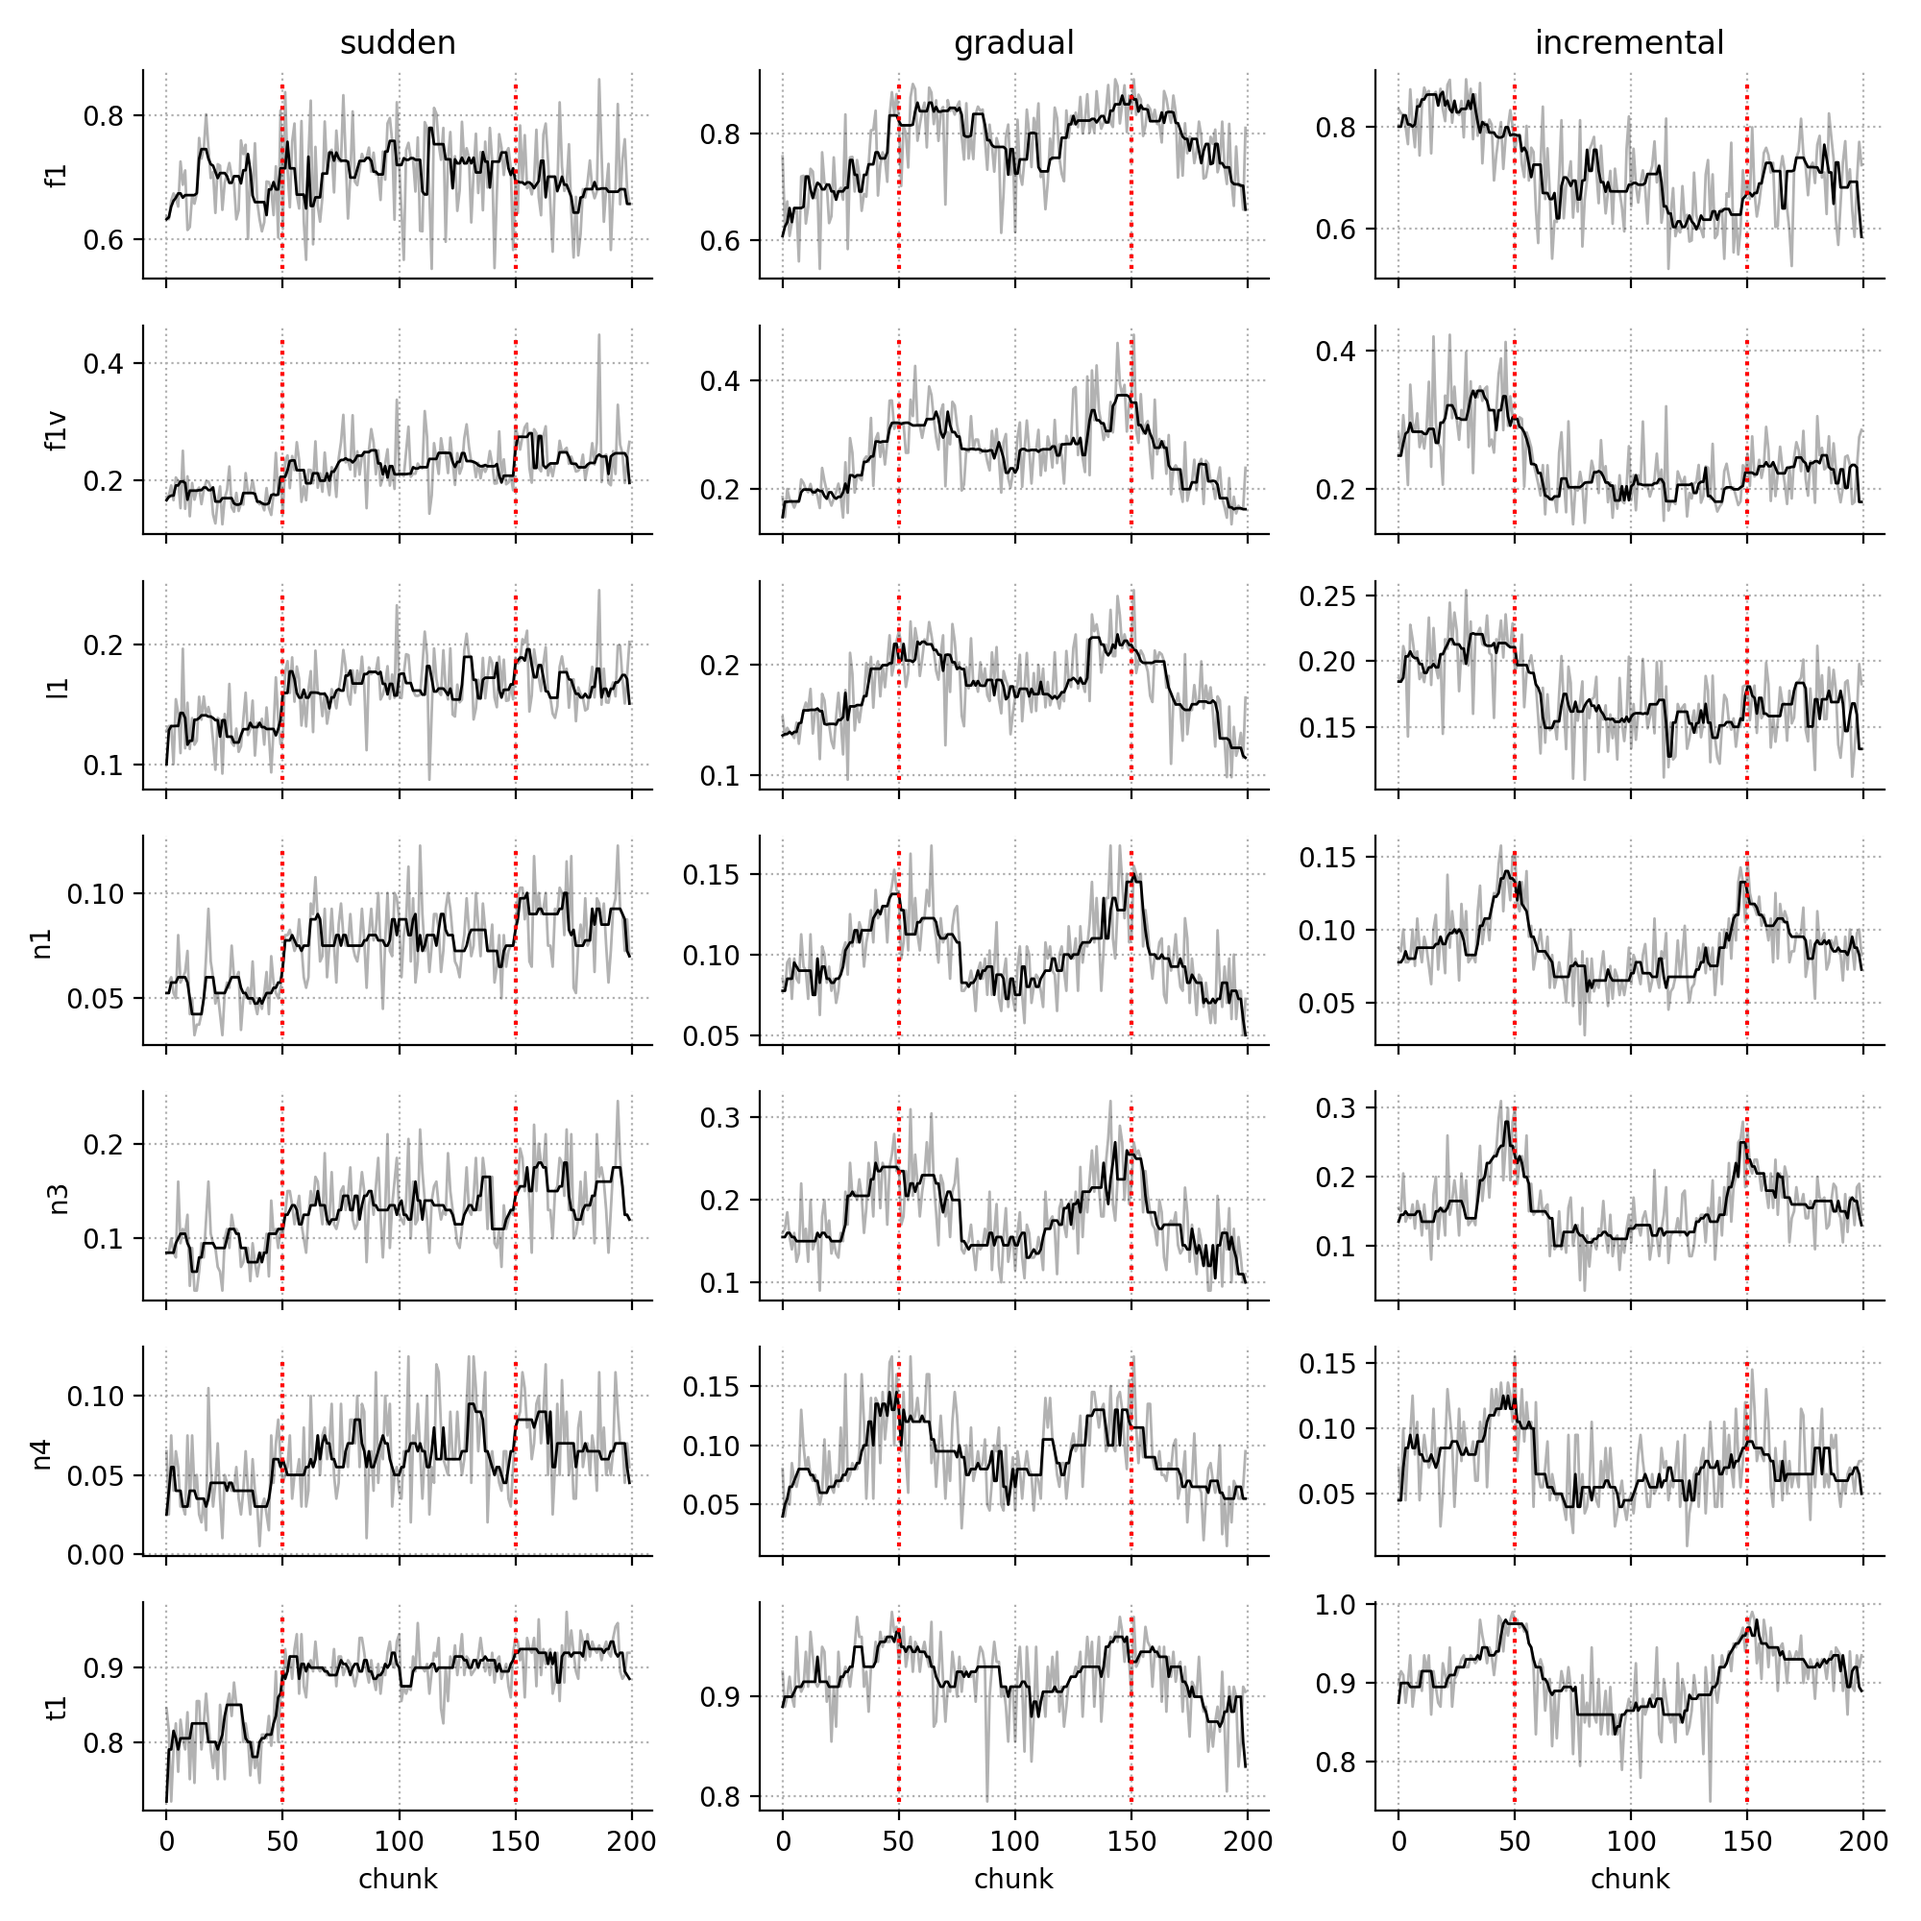
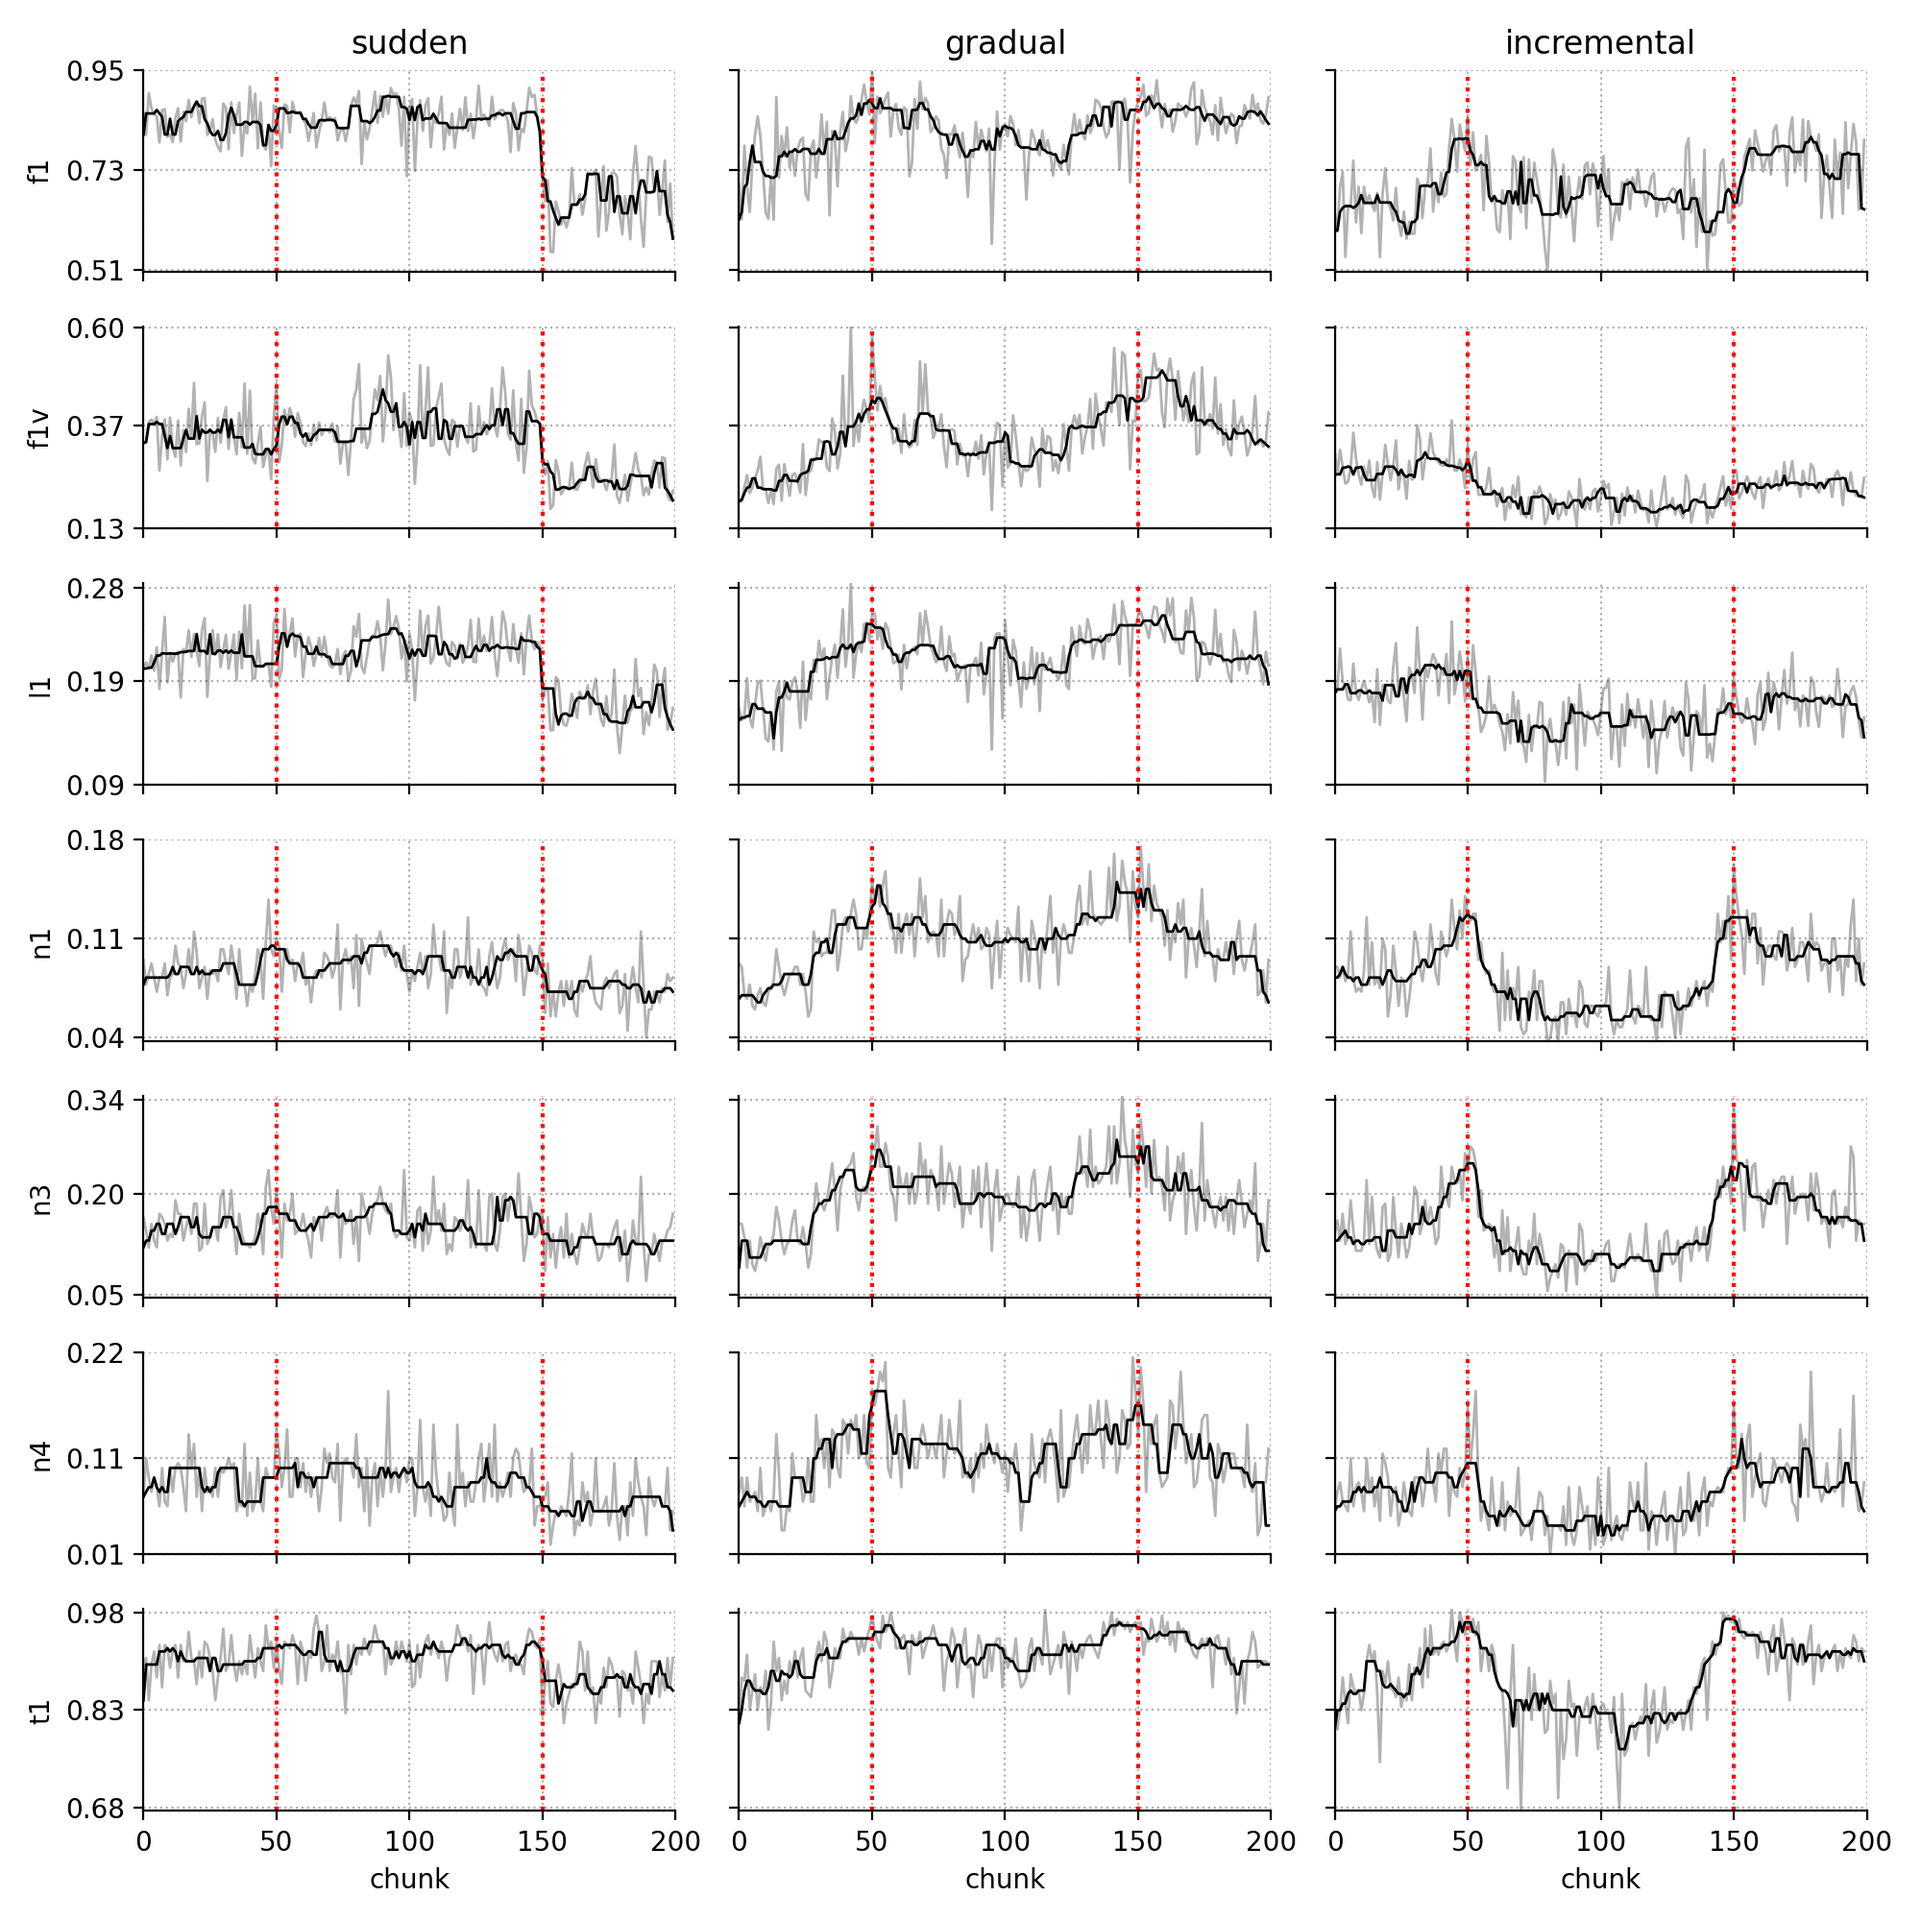
plots

diff --git a/complexity-plot.py b/complexity-plot.py
@@ -59,12 +59,14 @@ fig, ax = plt.subplots(len(measures), 3, figsize=(10,10), dpi=200, sharex=True)
 
 for drift_type_id, drift_type in enumerate(stream_drfs):
     for measure_id, measure in enumerate(measures):
+        min_measure = np.min(m_all[:, measure_id])
+        max_measure = np.max(m_all[:, measure_id])
 
         axx = ax[measure_id, drift_type_id]
 
         axx.plot(m_all[drift_type_id, measure_id], c='black', alpha=0.3, linewidth=1)
         axx.plot(medfilt(m_all[drift_type_id, measure_id],7), c='black', linewidth=1)
-        axx.vlines(drf, np.min(m_all[drift_type_id, measure_id]), np.max(m_all[drift_type_id, measure_id]), color='r', ls=':')
+        axx.vlines(drf, min_measure, max_measure, color='r', ls=':')
         axx.grid(ls=":")
         
         if drift_type_id==0:
@@ -76,7 +78,15 @@ for drift_type_id, drift_type in enumerate(stream_drfs):
         
         axx.spines['top'].set_visible(False)
         axx.spines['right'].set_visible(False)
-        # axx.set_yticks([])
+        
+        axx.set_xlim(0,200)
+        axx.set_ylim(min_measure, max_measure)
+        ticks=np.round(np.linspace(min_measure, max_measure, 3),2)
+        
+        if drift_type_id==0:
+            axx.set_yticks(ticks)
+        else:
+            axx.set_yticks(ticks, ['' for v in ticks])
 
 
 plt.tight_layout()
